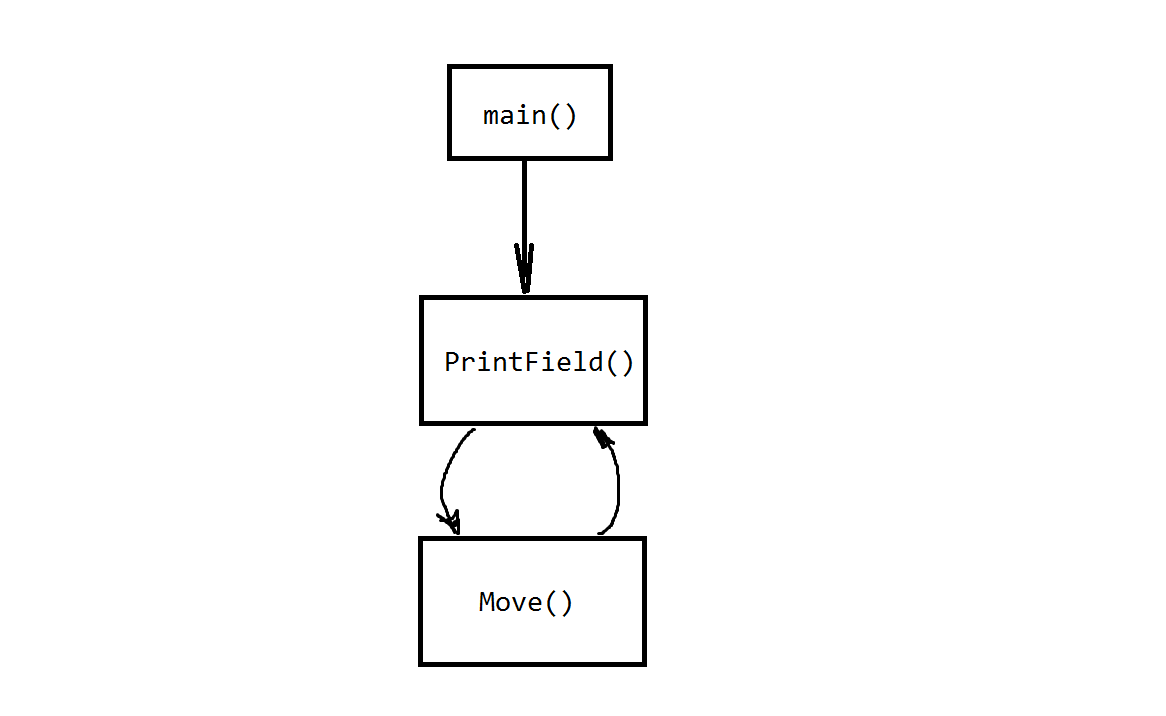
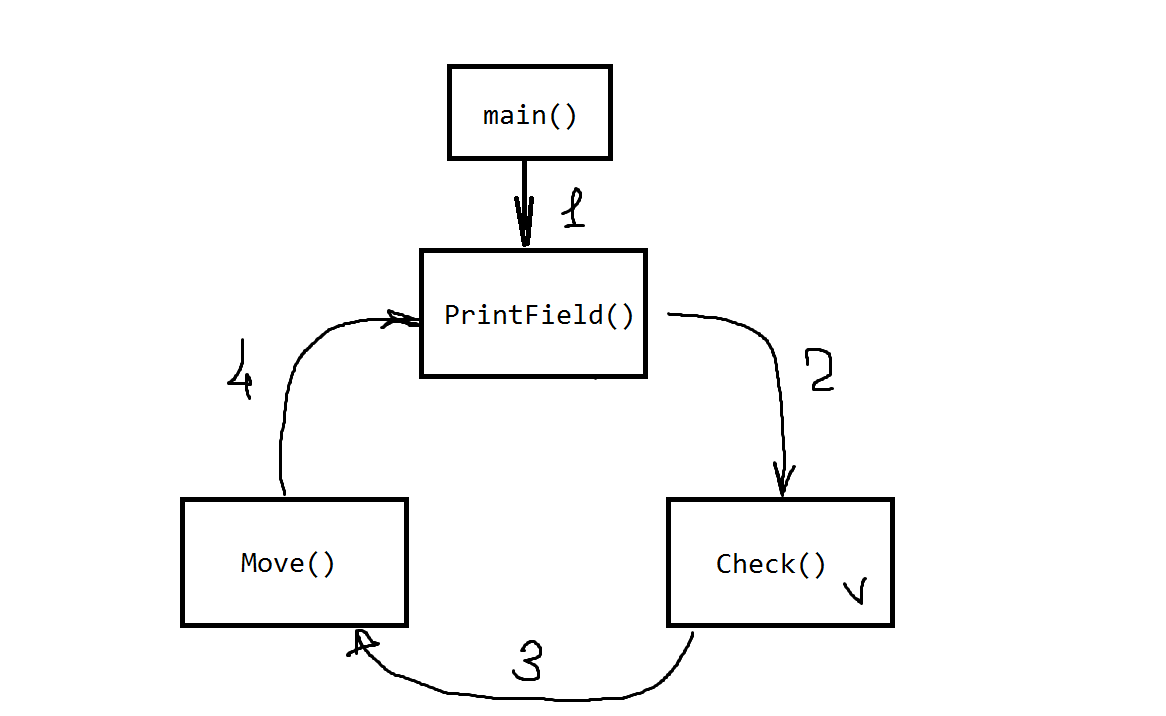
TicTacToe DONE

diff --git a/Functions/TicTacToe/main.cpp b/Functions/TicTacToe/main.cpp
@@ -5,6 +5,7 @@ using namespace std;
 #define VERTICAL_SHIFT		"\n\n\n\n\n\n\n"
 #define HORIZONTAL_SHIFT	"\t\t\t\t\t"
 
+void InitField(char field[], const int n, char player);
 void PrintField(char field[], const int n, char player);
 void Move(char field[], const int n, char player);
 void Check(char field[], const int n, char player);
@@ -15,9 +16,19 @@ void main()
 	const int n = 9;
 	char field[n] = {};
 	//for (int i = 0; i < n; i++)field[i] = i + '1';//49 - ASCII-код символа 1
-	PrintField(field, n, '0');
+	do
+	{
+		InitField(field, n, '0');
+		//PrintField(field, n, '0');
+		cout << "Еще разочек? Да - anykey, Нет - Escape" << endl;
+	} while (_getch() != 27);
 }
 
+void InitField(char field[], const int n, char player)
+{
+	for (int i = 0; i < n; i++)field[i] = 0;
+	PrintField(field, n, player);
+}
 void PrintField(char field[], const int n, char player)
 {
 	//system("calc");
@@ -50,7 +61,7 @@ void Move(char field[], const int n, char player)
 		if (key<'1' || key>'9')cout << "\aВы плохо нажимаете на кнопки, будьте внимательны\n";
 		//	\a (alert/alarm) - вывод в консоль звукового сигнала
 		else if (field[key - 49] != 0 && field[key - 49] != ' ')cout << "\aКлетка уже занята\n";
-	} while (key<'1' || key>'9' || field[key - 49] != 0 && field[key - 49] != ' ');
+	} while ((key<'1' || key>'9') || field[key - 49] != 0 && field[key - 49] != ' ');
 	field[key - 49] = player;
 	PrintField(field, n, player/* == 'X' ? '0' : 'X'*/);
 	//Check(field, n, player);
@@ -71,6 +82,21 @@ void Check(char field[], const int n, char player)
 	if (game_over)
 	{
 		cout << player << " победил!\n";
+		return;
+	}
+	bool draw = true;	//Изначально предполагаем что у нас ничья, 
+	//но это нужно проверить:
+	for (int i = 0; i < n; i++)
+	{
+		if (field[i] == 0 || field[i] == ' ')
+		{
+			draw = false;
+			break;
+		}
+	}
+	if (draw)
+	{
+		cout << "Ничья" << endl;
 		return;
 	}
 	//PrintField(field, n, player == 'X' ? '0' : 'X');
